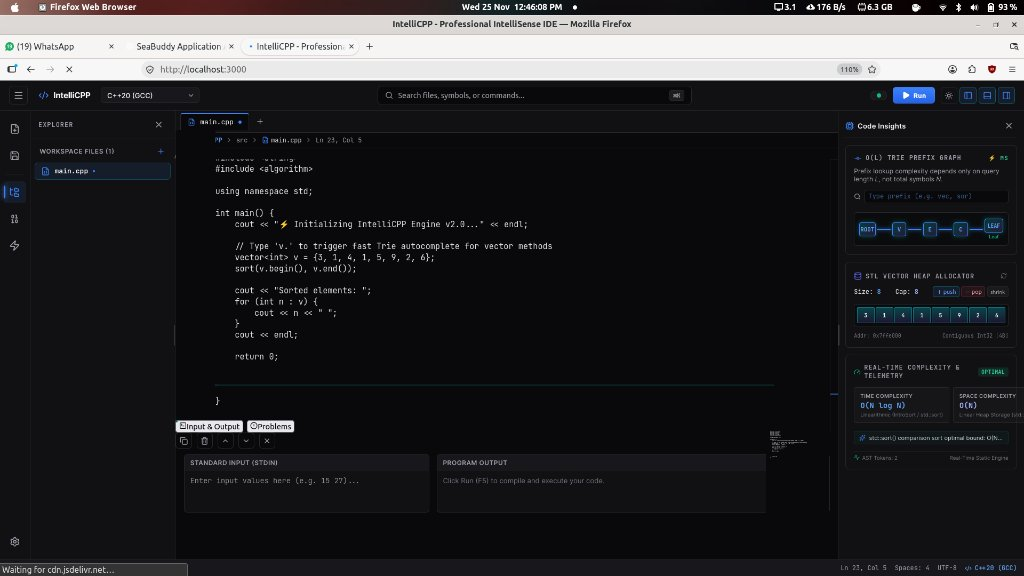
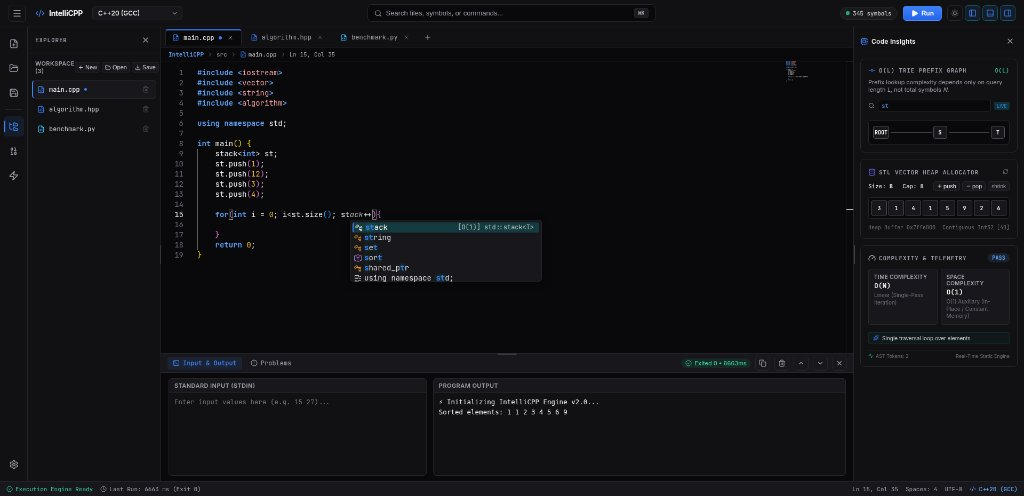
docs: update README and ide preview screenshot

diff --git a/README.md b/README.md
@@ -127,21 +127,39 @@ IntelliCPP combines bare-metal C++20 execution performance with a clean, distrac
 
 ## 🏗 System Architecture
 
-```mermaid
-graph TD
-    A[Monaco Editor & React 18 UI] -->|HTTP / Gzip Compression| B[Express Gateway Server :3001]
-    A -->|File System Access API| FS[Native OS File Manager]
-    A -->|Offline Sync| LS[LocalStorage Workspace]
-    A -->|Static AST Analysis| C[Real-Time Big-O & Scope Engine]
-    
-    B -->|LRU Cache / 28 STL JSONs + O(1) Maps| D[backend/data/stl/*.json]
-    B -->|Node-API Native Bridge| E[codeflow_native.node / C++20 Trie]
-    
-    B -->|Token Bucket & Concurrency Limiter| F[Helmet CSP & Input Validation]
-    B -->|Enqueue Job + STDIN| G[Async InMemoryJobQueue - 4 Workers]
-    
-    G -->|ulimits + 5s timeout| H[Toolchains: g++ C++20 / python3 / rustc]
-    H -->|stdout / stderr| I[Terminal Dock & Monaco Markers]
+```text
+┌────────────────────────────────────────────────────────────────────────────────────────┐
+│                            CLIENT LAYER  (Browser · React 18)                          │
+│                                                                                        │
+│   [ Monaco Editor UI ] ──── AST Static Analysis ───> [ Real-Time Big-O & Scope Engine ]│
+│            │                                                                           │
+│            ├─── File System Access API ────────────> [ Native OS Local File Sync ]     │
+│            └─── Offline Persistence ───────────────> [ LocalStorage Workspace Cache ]  │
+└───────────────────────────────────────────┬────────────────────────────────────────────┘
+                                            │ HTTP + Gzip Compression
+                                            v
+┌────────────────────────────────────────────────────────────────────────────────────────┐
+│                         API GATEWAY & CACHE  (Express :3001)                           │
+│                                                                                        │
+│   [ Helmet CSP & Input Validation ] ──> [ Token-Bucket Rate Limiter & Concurrency Cap ]│
+│            │                                                                           │
+│            ├─── Autocomplete Lookup ──> [ O(1) LRUCache ] ──> [ Node-API Native Bridge]│
+│            │                                                    ├─ codeflow_native.node│
+│            │                                                    ├─ C++20 Trie Engine   │
+│            │                                                    └─ 28 STL JSONs (345)  │
+│            │                                                                           │
+│            └─── Code Execution ───────> [ Async InMemoryJobQueue (4 Bounded Workers) ] │
+└───────────────────────────────────────────┬────────────────────────────────────────────┘
+                                            │ ulimits (RAM / CPU / fsize) + 5s Timeout
+                                            v
+┌────────────────────────────────────────────────────────────────────────────────────────┐
+│                       SANDBOXED COMPUTE LAYER  (Linux Container)                       │
+│                                                                                        │
+│        [ g++ (C++20) ]            [ python3 (Python 3) ]            [ rustc (Rust) ]   │
+│               └─────────────────────────────┬──────────────────────────────┘           │
+│                                             v  stdout / stderr / exit code             │
+│                        [ Terminal Dock & Monaco Inline Markers ]                       │
+└────────────────────────────────────────────────────────────────────────────────────────┘
 ```
 
 ---
